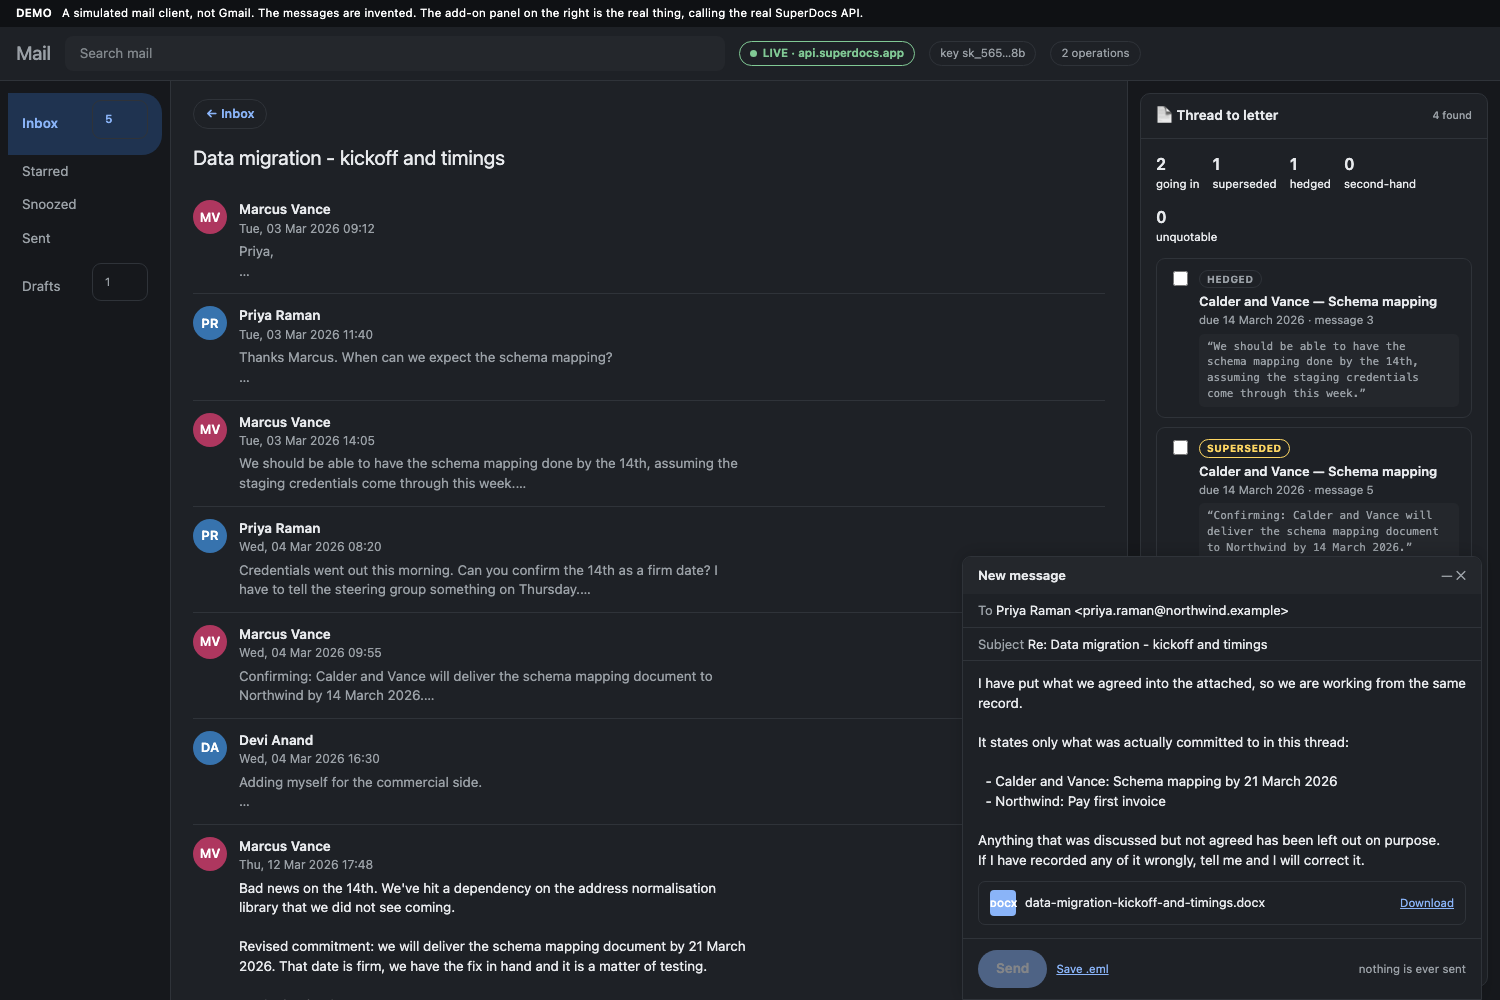
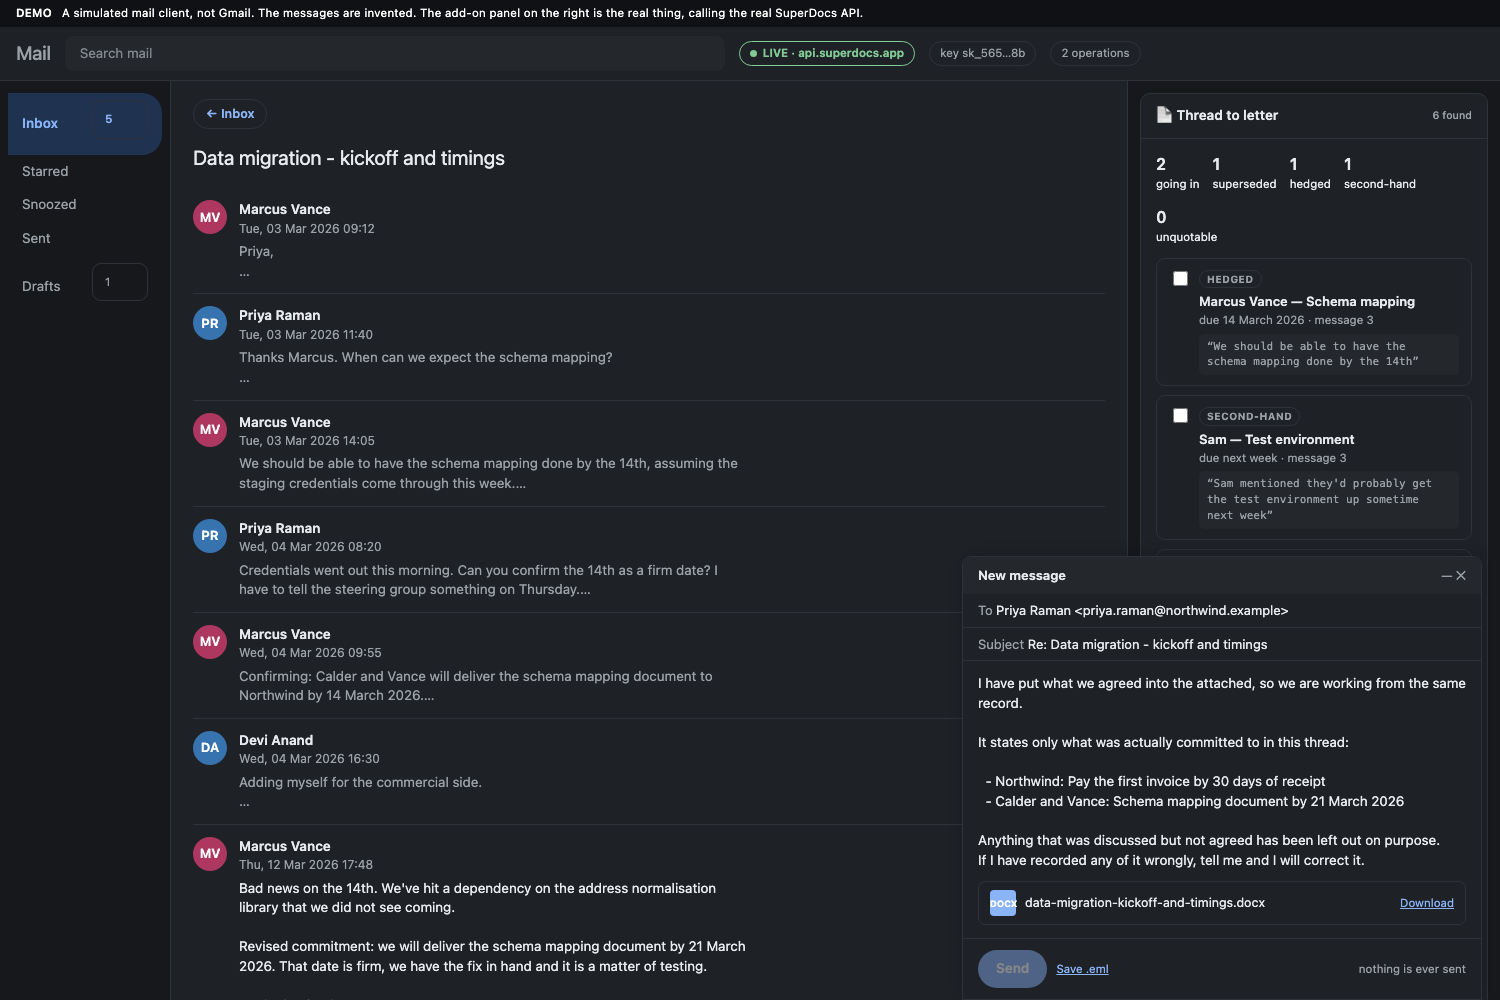
Letter or memo from the UI, and stop sessions accumulating between runs
Checking the build against its card found memo reachable from the CLI and
hard-coded to "letter" in the UI — and since the UI is now the demo, the card's
"letter or memo" was half met. There is a toggle in the add-on panel now.

Testing that turned up two real bugs, both about session hygiene.

The session id was derived from the thread's content alone, so every run of the
same thread reused one conversation and turns piled up. After two dozen, a live
run returned commitments about people who were not in the thread at all: the
model answering from the session's history instead of the evidence. Every one
of them failed quote verification and nothing reached the letter — the safety
net worked exactly as designed — but it should not be load-bearing for
something this avoidable. Each run gets a fresh session.

And the letter was drafted in the extraction's session, which contains the
whole thread. The module docstring claimed the drafting turn is given the
confirmed commitments "not the thread"; that was false as implemented. A live
memo invented a FROM: line by reading the sender out of the conversation the
reviewer had just filtered. Drafting now happens in its own session, and the
same memo correctly writes [SENDER NAME] because it cannot see who sent
anything.

48 tests.

Changed region(s): [[0.7667, 0.372, 0.9507, 0.558], [0.644, 0.775, 0.9507, 0.806], [0.7973, 0.279, 0.9507, 0.31]]

diff --git a/extensions/vishvamsinh28/thread-to-letter/src/thread_to_letter/console.html b/extensions/vishvamsinh28/thread-to-letter/src/thread_to_letter/console.html
@@ -131,6 +131,10 @@
   .call .nn{grid-column:2/-1;color:var(--faint);font-size:10px}
   .call .nn b{color:var(--warn)}
   .empty{color:var(--dim);font-size:12.5px}
+  .seg{display:inline-flex;border:1px solid var(--line);border-radius:20px;overflow:hidden}
+  .segb{background:transparent;color:var(--dim);border:0;border-radius:0;padding:5px 15px;
+    font-size:12.5px;font-weight:500}
+  .segb.on{background:var(--sel);color:var(--accent);font-weight:600}
   .counts{display:flex;flex-wrap:wrap;gap:13px;font-size:11.5px;margin-bottom:12px}
   .counts b{display:block;font-size:16px;font-weight:600}
 </style>
@@ -176,7 +180,8 @@
   const $ = id => document.getElementById(id);
   const esc = s => (s||"").replace(/[&<>]/g, c => ({"&":"&amp;","<":"&lt;",">":"&gt;"}[c]));
   const ms = n => n >= 1000 ? (n/1000).toFixed(1)+"s" : n+"ms";
-  let callSeq = 0, open = null, sig = null, drafted = false;
+  let callSeq = 0, open = null, sig = null, drafted = false, shape = "letter";
+  window.setShape = v => { shape = v; sig = null; poll(); };
 
   const HUES = [210, 145, 25, 280, 340, 190];
   const hue = s => HUES[[...(s||"x")].reduce((a,c)=>a+c.charCodeAt(0),0) % HUES.length];
@@ -287,12 +292,17 @@
       </label>`).join("");
 
     const n = s.commitments.filter(x=>x.chosen).length;
-    html += `<button id="write" ${busy?"disabled":""} style="margin-top:4px">
-      ${busy?"Writing…":`Write letter &amp; attach to reply`}</button>
+    const noun = shape === "memo" ? "memo" : "letter";
+    html += `<div class="seg" style="margin:2px 0 11px">
+        <button class="segb ${shape==="letter"?"on":""}" onclick="setShape('letter')">Letter</button>
+        <button class="segb ${shape==="memo"?"on":""}" onclick="setShape('memo')">Memo</button>
+      </div>
+      <button id="write" ${busy?"disabled":""}>
+      ${busy?"Writing…":`Write ${noun} &amp; attach to reply`}</button>
       <p class="sm" style="margin:9px 0 0">${n} selected · ${c_live(s)}</p>`;
-    const next = JSON.stringify([s.commitments.map(c=>[c.quote,c.chosen]), busy, s.error]);
+    const next = JSON.stringify([s.commitments.map(c=>[c.quote,c.chosen]), busy, s.error, shape]);
     if(next !== sig){ sig = next; $("addon").innerHTML = html; }
-    if($("write")) $("write").onclick = () => post("/api/letter",{shape:"letter"});
+    if($("write")) $("write").onclick = () => post("/api/letter",{shape});
   }
 
   const c_live = s => s.connection.live

diff --git a/extensions/vishvamsinh28/thread-to-letter/tests/test_session.py b/extensions/vishvamsinh28/thread-to-letter/tests/test_session.py
@@ -1,0 +1,43 @@
+"""Each run gets its own conversation.
+
+A session id derived only from the thread meant every run of the same thread reused one
+conversation, and turns accumulated. A live run with two dozen turns of history behind it
+returned commitments about people who were not in the thread — the model answering from
+the session rather than from the evidence.
+
+Every one of those failed quote verification and nothing reached the letter. The safety
+net held. These tests exist so it does not have to.
+"""
+
+from __future__ import annotations
+
+from thread_to_letter.session import PREFIX, new_session
+from thread_to_letter.thread import Thread
+
+
+def test_two_runs_of_the_same_thread_get_different_sessions(thread: Thread) -> None:
+    a = new_session(thread.normalised)
+    b = new_session(thread.normalised)
+    assert a != b, "reusing a session lets one run's history contaminate the next"
+
+
+def test_the_thread_is_still_recognisable_in_the_name(thread: Thread) -> None:
+    """So a session can be found in the web app when you go looking."""
+    a, b = new_session(thread.normalised), new_session(thread.normalised)
+    assert a.startswith(PREFIX) and b.startswith(PREFIX)
+    # thread2letter-<12 hex of thread>-<nonce>
+    assert a.split("-")[1] == b.split("-")[1]
+
+
+def test_different_threads_are_distinguishable() -> None:
+    assert new_session("one thread").split("-")[1] != new_session("another").split("-")[1]
+
+
+def test_the_letter_gets_a_session_of_its_own_on_top(thread: Thread) -> None:
+    """Two isolations, not one: fresh per run, and the drafting turn separate again so
+    the thread in the extraction prompt cannot leak into the letter."""
+    from thread_to_letter.letter import LETTER, MEMO
+
+    base = new_session(thread.normalised)
+    assert f"{base}-{LETTER}" != base
+    assert f"{base}-{LETTER}" != f"{base}-{MEMO}"

diff --git a/extensions/vishvamsinh28/thread-to-letter/src/thread_to_letter/letter.py b/extensions/vishvamsinh28/thread-to-letter/src/thread_to_letter/letter.py
@@ -1,8 +1,14 @@
 """Turning confirmed commitments into a formal letter or memo.
 
-The second billable turn. It is given the commitments a human confirmed — not the thread
-— because the letter must be able to say only what somebody accepted, and the surest way
-to keep speculation out of it is to keep the raw conversation out of it.
+The second billable turn, and deliberately in **its own session**.
+
+It is given the commitments a human confirmed, not the thread, because the letter must be
+able to say only what somebody accepted — and the surest way to keep speculation out of it
+is to keep the raw conversation out of it. Reusing the extraction session would defeat
+that: the extraction prompt contains the whole thread, so the drafting turn could see
+every hedge and every retracted date the reviewer had just excluded, and write from them.
+
+A fresh session starts empty. The only thing in it is the confirmed list.
 
 The letter states each commitment with its date and its party. It does not editorialise,
 does not add warmth that was not there, and does not fill gaps. Where nothing was
@@ -121,10 +127,12 @@ def draft(
         if commitments
         else NOTHING_PROMPT.format(**common)
     )
-    result = client.chat(session_id, prompt, model_tier=model_tier, note=f"draft {shape}")
+    # Its own session, so the thread cannot leak into the letter. See the note above.
+    letter_session = f"{session_id}-{shape}"
+    result = client.chat(letter_session, prompt, model_tier=model_tier, note=f"draft {shape}")
     return Letter(
         html=document_html(result),
-        session_id=session_id,
+        session_id=letter_session,
         shape=shape,
         operations=1 if client.usage_from(result).get("was_billable") else 0,
         commitments=list(commitments),

diff --git a/extensions/vishvamsinh28/thread-to-letter/src/thread_to_letter/cli.py b/extensions/vishvamsinh28/thread-to-letter/src/thread_to_letter/cli.py
@@ -50,10 +50,9 @@ def _client() -> Client:
 
 
 def _session(thread: Thread) -> str:
-    import hashlib
+    from .session import new_session
 
-    digest = hashlib.sha256(thread.normalised.encode()).hexdigest()[:12]
-    return f"thread2letter-{digest}"
+    return new_session(thread.normalised)
 
 
 def _show_thread(thread: Thread) -> None:
@@ -232,7 +231,7 @@ def run(
                     raise typer.Exit(3)
 
             confirmed = _gate(extraction.commitments, auto)
-            console.print(f"[dim]{len(confirmed)} commitment(s) will go in the letter.[/dim]")
+            console.print(f"[dim]{len(confirmed)} commitment(s) will go in the {shape}.[/dim]")
 
             console.print("[dim]Drafting…[/dim]")
             today = _dt.date.today().strftime("%d %B %Y")
@@ -241,7 +240,7 @@ def run(
                 today=today, model_tier=model_tier,
             )
 
-            blob = client.export(session_id=session, fmt=fmt,
+            blob = client.export(session_id=result.session_id, fmt=fmt,
                                  options={"filename": draft_mod._slug(thread.subject)})
             letter_path = draft_mod.write(target / f"{draft_mod._slug(thread.subject)}."
                                           f"{draft_mod._SUFFIX.get(fmt, fmt)}", blob)

diff --git a/extensions/vishvamsinh28/thread-to-letter/src/thread_to_letter/session.py b/extensions/vishvamsinh28/thread-to-letter/src/thread_to_letter/session.py
@@ -1,0 +1,29 @@
+"""Naming the SuperDocs session a run works in.
+
+A session id derived only from the thread looked tidy and was wrong: every run of the
+same thread reused the same conversation, so turns accumulated. After two dozen of them a
+live run came back with commitments about people who were not in the thread at all — the
+model was answering from a session stuffed with the history of every previous attempt.
+
+Every quote in that run failed verification and nothing reached the letter, which is the
+safety net working. But the safety net should not be load-bearing for something this
+avoidable.
+
+So each run gets its own session. The thread hash stays in the name because it makes a
+session recognisable when you go looking in the web app; the nonce is what makes it new.
+"""
+
+from __future__ import annotations
+
+import hashlib
+import os
+import time
+
+PREFIX = "thread2letter"
+
+
+def new_session(thread_normalised: str) -> str:
+    """A fresh session for one run of one thread."""
+    digest = hashlib.sha256(thread_normalised.encode()).hexdigest()[:12]
+    nonce = f"{int(time.time())%100000:05d}{os.urandom(2).hex()}"
+    return f"{PREFIX}-{digest}-{nonce}"

diff --git a/extensions/vishvamsinh28/thread-to-letter/tests/test_pipeline.py b/extensions/vishvamsinh28/thread-to-letter/tests/test_pipeline.py
@@ -108,3 +108,15 @@ def test_the_dangling_check_runs_on_real_extraction_output(
     # The stand-in pairs its superseded row with a firm replacement, as a real
     # extraction should.
     assert dangling_superseded(result.commitments) == []
+
+
+def test_the_letter_is_drafted_in_its_own_session(client: Client, thread: Thread) -> None:
+    """The extraction session contains the entire thread. Drafting in it would let every
+    hedge and retracted date the reviewer just excluded back into the letter."""
+    extracted = extract_mod.extract(client, thread, "sess-x")
+    drafted = letter_mod.draft(client, thread, extracted.usable, "sess-x")
+    assert drafted.session_id != "sess-x"
+    assert drafted.session_id.startswith("sess-x")
+
+    memo = letter_mod.draft(client, thread, extracted.usable, "sess-x", shape="memo")
+    assert memo.session_id != drafted.session_id, "a memo is not the same document as a letter"

diff --git a/extensions/vishvamsinh28/thread-to-letter/src/thread_to_letter/web.py b/extensions/vishvamsinh28/thread-to-letter/src/thread_to_letter/web.py
@@ -132,10 +132,12 @@ class ConsoleService:
         state.busy = "Reading the thread for commitments…"
         state.error = None
         try:
-            import hashlib
+            from .session import new_session
 
-            digest = hashlib.sha256(state.thread.normalised.encode()).hexdigest()[:12]
-            state.session_id = f"thread2letter-{digest}"
+            # A fresh session per extraction. Reusing one across runs let two dozen turns
+            # of history pile up, and the model started answering from that instead of
+            # from the thread.
+            state.session_id = new_session(state.thread.normalised)
             with self._client() as client:
                 result = extract_mod.extract(client, state.thread, state.session_id)
                 self._absorb(client)

diff --git a/extensions/vishvamsinh28/thread-to-letter/README.md b/extensions/vishvamsinh28/thread-to-letter/README.md
@@ -77,6 +77,22 @@ and it is the rarer output.
 
 ## What running it live found
 
+**A session per run, not per thread.** The session id was derived from the thread's
+content, so every run of the same thread reused one conversation and turns piled up.
+After two dozen, a live run came back with commitments about people who were not in the
+thread at all — the model answering from the session's history rather than from the
+evidence. **Every one of them failed quote verification and nothing reached the letter**,
+which is the safety net doing exactly its job; but a safety net should not be load-bearing
+for something this avoidable. Each run now gets a fresh session.
+
+**The letter is drafted in a session of its own.** The extraction prompt contains the
+whole thread, so drafting in that same session let the thread back in — a live memo
+invented a `FROM:` line by reading the sender out of the conversation the reviewer had
+just filtered. With the session isolated it correctly writes `[SENDER NAME]` instead,
+because it cannot see who sent anything. It is given the confirmed commitments and
+nothing else.
+
+
 The first live run **dropped the most important commitment in the thread.** It correctly
 marked the 14 March delivery `superseded` — and then never listed the 21 March commitment
 that superseded it. The letter would have named the payment terms and silently omitted
@@ -106,7 +122,7 @@ make demo                 # http://127.0.0.1:8430
 | `make offline` | The same pipeline in the terminal, against a local stand-in — no key, no cost |
 | `make cli` | One thread, terminal, live |
 | `make addon` | Runs the Apps Script add-on's own code, live |
-| `make test` | 43 tests, no key |
+| `make test` | 48 tests, no key |
 
 On your own thread — export it from Gmail (⋮ → Download message), drop the `.mbox` into
 `threads/`, and it appears in the inbox. Or from the terminal:
@@ -182,7 +198,7 @@ natural shape here, and a table is far more robust to parse than prose.
 ## Tests
 
 ```bash
-make test     # 40 tests, no API key, no network beyond localhost
+make test     # 48 tests, no API key, no network beyond localhost
 ```
 
 Most of what matters is offline and tested for real: thread parsing, quote verification
